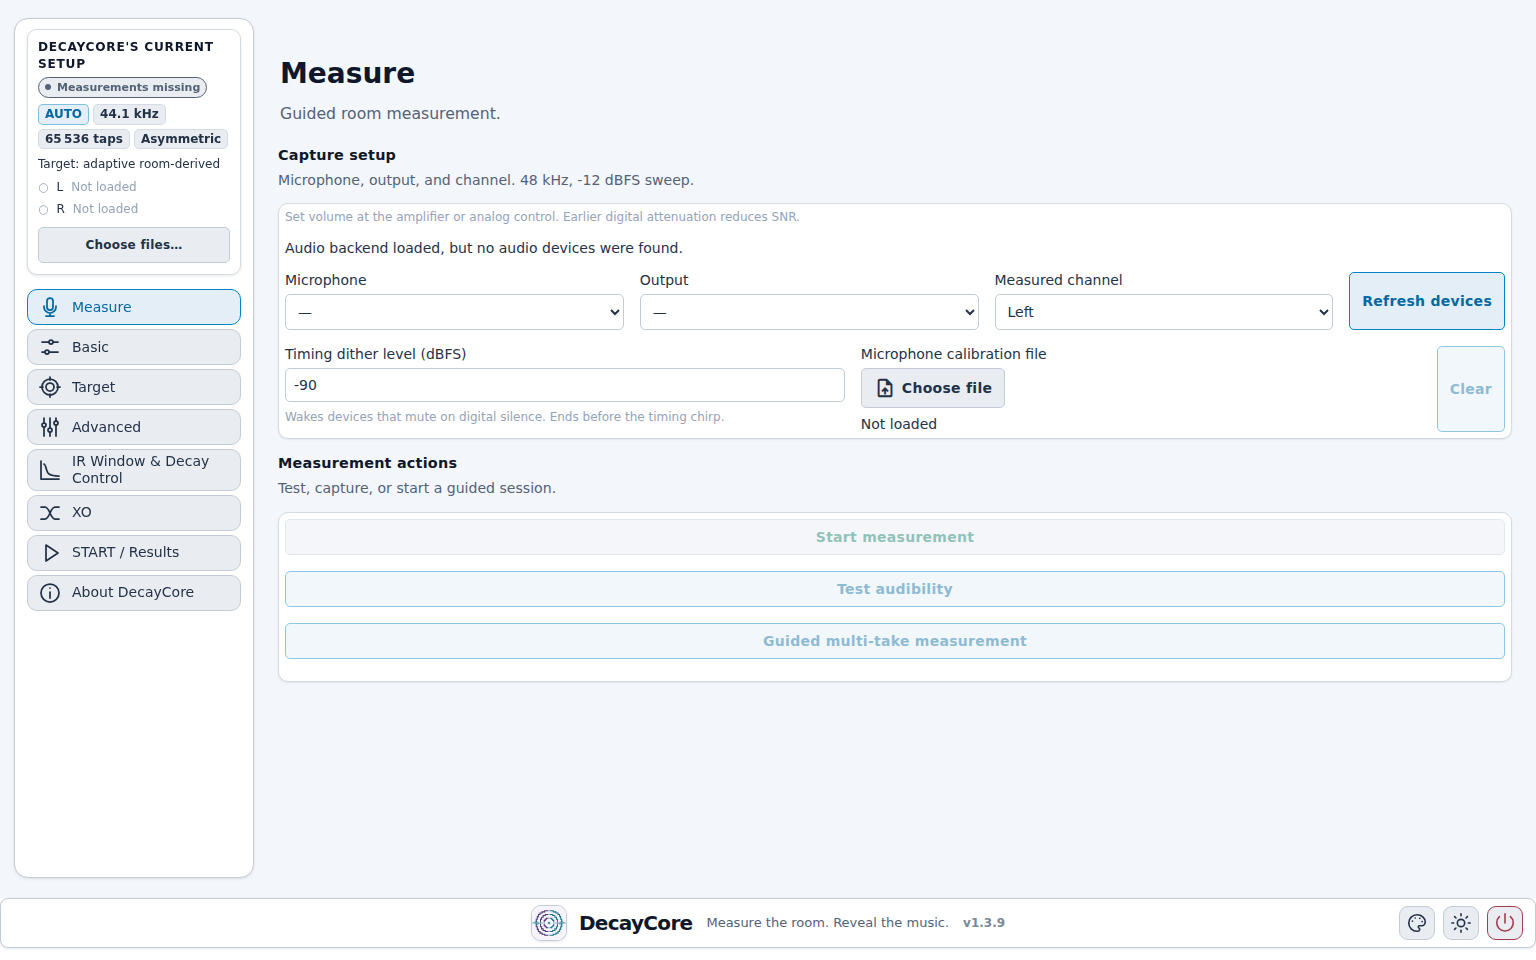
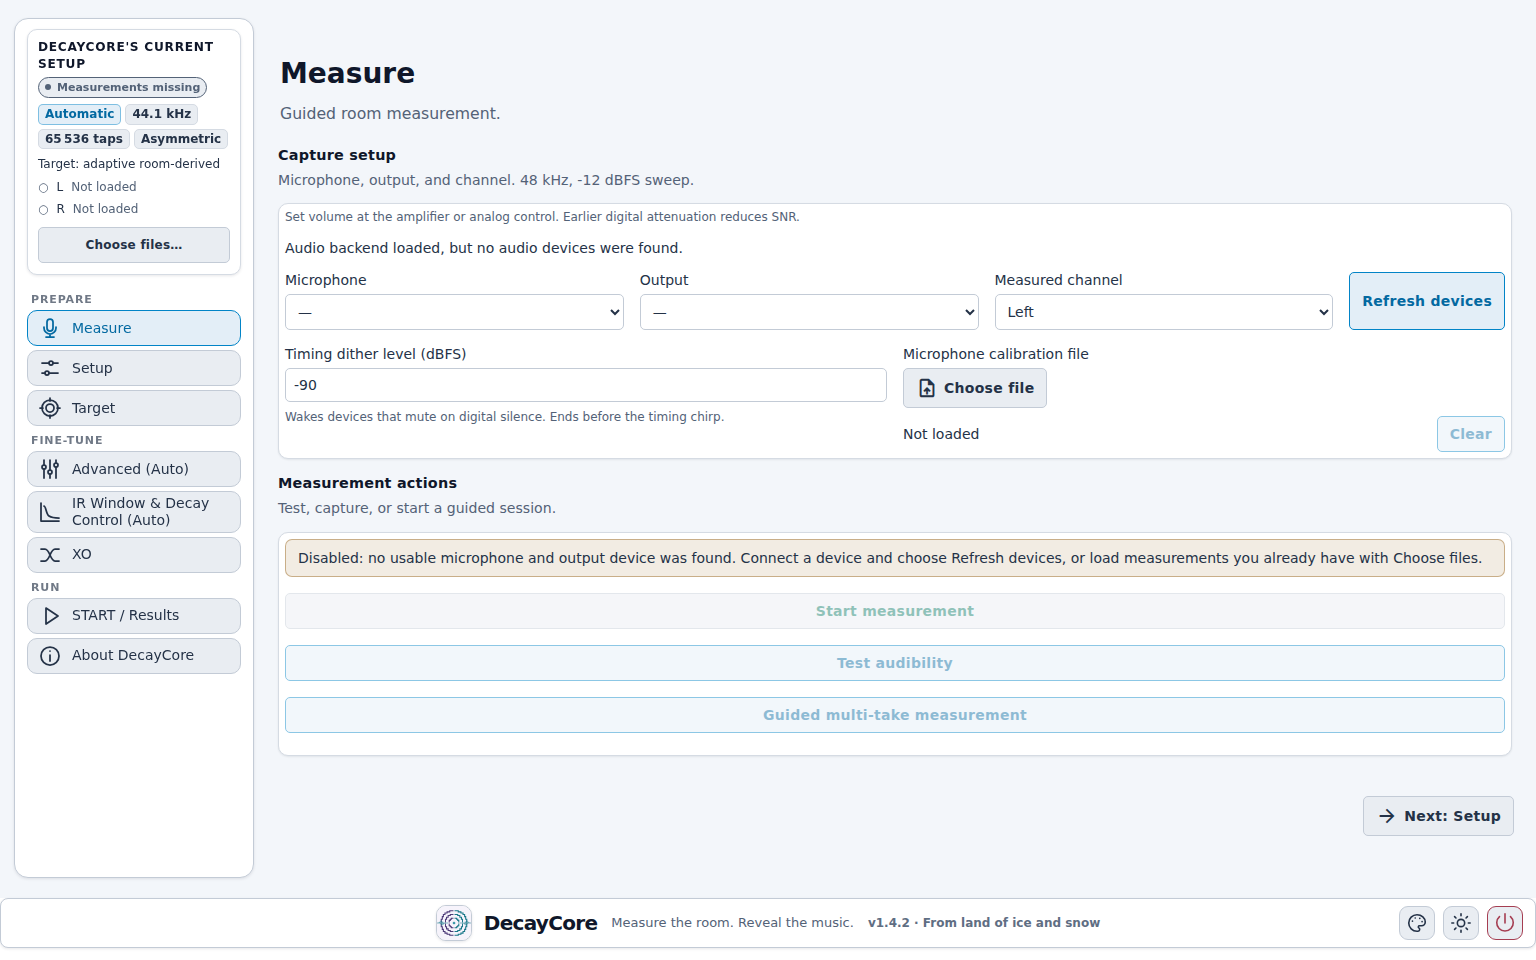
chore: release 1.4.3

diff --git a/docs/CHANGELOG.md b/docs/CHANGELOG.md
@@ -10,6 +10,68 @@ This page contains the five latest stable releases. [Older releases and Finnish 
 
 ## [Unreleased]
 
+## [1.4.3] - 30-10-2026
+
+### Send a log file with bug reports
+
+Tick Save a log file in About DecayCore, repeat the problem, and click Email the log. Your email app opens a draft to the developer. Attach the newest file from Documents/DecayCore/logs, since an email link cannot attach it.
+
+### Audio diagnostics and LAN access on macOS
+
+Run `./Start_Decay.command --audio-diagnostics` to list your audio devices, or `--lan` to open DecayCore from another computer. With `--lan` the addresses print in the terminal, macOS asks for microphone access for Terminal, and closing the terminal stops DecayCore.
+
+### Placement hints for deep bass nulls
+
+Results lists up to three deep, narrow nulls that no filter can fill, each with the distance to a reflecting surface that can cause it. Moving the speaker, subwoofer or seat does more than any filter.
+
+### Settings files for Equalizer APO and PipeWire
+
+Tick Equalizer APO and PipeWire files in Output settings to add a ready-made config for each player to the export, next to the CamillaDSP files.
+
+### Profiles for your settings
+
+Save your settings under a name on the Setup page and load them again, for music and movies for example. A profile holds settings only, not measurement files. Undo restores what a load replaced.
+
+### Results lead with graphs
+
+Results opens with the graphs. The details sit in three groups, and the ZIP download is a small link beside the saved folder.
+
+### Crossover models no longer fail the safety check
+
+Asymmetric and Linear Phase filters for a speaker with crossovers set under XO pass the safety check. Undoing a crossover's phase puts part of the pulse just ahead of its peak, and the check counted that as pre-ringing. It now allows for it. Earlier Automatic results are rebuilt.
+
+### Automatic tap count shortens many more filters
+
+Most Minimum and Mixed Phase filters now shorten by about 60%, Linear Phase filters by about a third, and more Asymmetric filters shorten too. An exported filter stays within 1% (about 0.09 dB) of the design response. The search takes a few seconds longer.
+
+### DecayCore asks before quitting mid-run
+
+The Quit button asks first while a run or measurement is in progress, and the browser warns before you close the tab. A long Automatic search is no longer lost by accident.
+
+### Undo for Apply mode defaults
+
+Undo puts back the values that Apply mode defaults replaced. The message tells you how many values changed.
+
+### Measure says why capture is unavailable
+
+The Measure page shows the reason above the buttons, such as no microphone or output device, and points to loading measurements you already have.
+
+### Edit manually from Automatic mode
+
+Pages that Automatic mode manages have an Edit manually in Advanced mode button. In the Modern and North styles their tabs are labelled Auto. The Target preview says when its curve is for reference only.
+
+### Navigation follows the working order
+
+In the Modern and North styles, tabs are grouped as Prepare, Fine-tune and Run, and each page before START ends with a Next button. The group names show in windows tall enough to fit them.
+
+### Run all four filter types keeps every result
+
+Each filter type's result and download stay on the page, one section per type, with the latest open. Before, only the last result remained.
+
+### A tidier XO page and labels
+
+The XO page shows the crossovers you use plus one empty slot, and its heading no longer repeats the step number. Labels no longer use emoji, so they look the same on every system.
+
 ## [1.4.2] - 24-10-2026
 
 ### Deep bass nulls now show clearly in the target curve

diff --git a/docs/Installation.md b/docs/Installation.md
@@ -31,12 +31,13 @@ ALSA and PulseAudio host APIs. `install.sh` supplies the host audio
 libraries: `libasound2t64 libpulse0` on current Debian/Ubuntu releases (`libasound2` on older releases), or `alsa-lib libpulse pipewire-alsa pipewire-pulse wireplumber`
 on an Arch PipeWire audio system.
 
-To print the packaged process's PortAudio host APIs and raw device list without opening an audio stream, run `./run.sh --audio-diagnostics`.
+To print the packaged process's PortAudio host APIs and raw device list without opening an audio stream, run `./run.sh --audio-diagnostics` (`./Start_Decay.command --audio-diagnostics` on macOS).
 
 DecayCore normally opens its local browser interface automatically. If it does not, open `http://127.0.0.1:8080`. The interface runs on your computer; it is not a cloud service.
 
 To use the interface from another computer on the same trusted network, start
-DecayCore with `--lan` (for example, `./run.sh --lan` on Linux). Open one of the
+DecayCore with `--lan` (for example, `./run.sh --lan` on Linux or
+`./Start_Decay.command --lan` on macOS). Open one of the
 `DecayCore LAN:` addresses printed in the console, such as
 `http://192.168.1.20:8080/`. You can bookmark this address; no session code is
 needed. Anyone who can reach the server on the network can open the interface.
@@ -44,6 +45,10 @@ LAN mode uses unencrypted HTTP and does not automatically open a local browser,
 so do not enable it on an
 untrusted or publicly exposed network. The host firewall may also need permission
 for TCP port 8080 on the private network.
+
+On macOS, `--lan` runs DecayCore inside the terminal window so that the addresses
+are shown there. macOS then asks for microphone access for Terminal instead of
+DecayCore, and closing the terminal window stops DecayCore.
 
 See [Measurement]({{ '/measurement-workflow/' | relative_url }}) for current platform support and routing requirements.
 

diff --git a/docs/index.md b/docs/index.md
@@ -105,8 +105,8 @@ image: https://vilhovalittu.github.io/DecayCore/pics/DecayCore_logo_light.png
     <p class="band__intro">Work through the pages from measurement to export. Automatic mode handles the search and shows its chosen settings, so you have a starting point for listening without spending the evening trying every combination.</p>
     <div class="shots">
       <figure class="shot">
-        <a href="{{ '/pics/ui_1.png' | relative_url }}"><img src="{{ '/pics/ui_1.png' | relative_url }}" alt="Basic tab with the mode selector, automatic goal, and target strategy" width="1536" height="960" loading="lazy"></a>
-        <figcaption>Basic: choose the mode, goal, and target strategy.</figcaption>
+        <a href="{{ '/pics/ui_1.png' | relative_url }}"><img src="{{ '/pics/ui_1.png' | relative_url }}" alt="Setup tab with the mode selector, automatic goal, and target strategy" width="1536" height="960" loading="lazy"></a>
+        <figcaption>Setup: choose the mode, goal, and target strategy.</figcaption>
       </figure>
       <figure class="shot">
         <a href="{{ '/pics/ui_4.png' | relative_url }}"><img src="{{ '/pics/ui_4.png' | relative_url }}" alt="Target tab with a target curve preview and correction limits" width="1536" height="960" loading="lazy"></a>

diff --git a/docs/faq.md b/docs/faq.md
@@ -43,6 +43,8 @@ The packaged release also includes guided measurement and Automatic mode.
 
 Open **About DecayCore → Maintenance**. Use **Clear automatic-mode caches** for unexpected Automatic results or **Reset settings to defaults** for a damaged configuration. Neither action removes measurements, target presets, or exported filters.
 
+To report a problem, tick **Save a log file** in **About DecayCore**, repeat the steps, and click **Email the log**. Your email app opens a draft to the developer with the end of the log. An email link cannot attach files, so attach the file named in the message, the newest one in `Documents/DecayCore/logs`. On macOS this is also the way to get the log, because `Start_Decay.command` hides the terminal output.
+
 If the app does not start, use the platform cleanup script in `config_delete/`. [Configuration and Data Paths]({{ '/paths.html#resetting-caches-and-configuration-troubleshooting' | relative_url }}) lists the affected files.
 
 ## Is DecayCore open source?

diff --git a/docs/User_Manual.md b/docs/User_Manual.md
@@ -155,7 +155,10 @@ Match the sample rate to the playback pipeline. More taps give better low-freque
 In packaged builds, open **Additional run options** on **START / Results** and
 choose **Run with automatic tap count**. This generates filters with
 the current settings and then shortens their exported support within a strict
-response-error bound. It works with Asymmetric, Minimum, Mixed and Linear Phase.
+response-error bound: at every frequency the exported filter stays within 1%
+(about 0.09 dB) of the design response, measured against the local response with
+a floor of 0.1% of the response peak. It works with Asymmetric, Minimum, Mixed
+and Linear Phase.
 The taps setting still controls the design resolution; it is not replaced by
 the final export length. Each sample rate is checked separately.
 

diff --git a/docs/paths.md b/docs/paths.md
@@ -193,6 +193,9 @@ read; delete it manually, or with the helper scripts, once you no longer need it
 | **Old, unused** | `~/.camillafir/` | `~/.camillafir/` | `~/.camillafir/` |
 | **Measurements** | `~/Documents/DecayCore/measurement/` | `~/Documents/DecayCore/measurement/` | `%USERPROFILE%\Documents\DecayCore\measurement\` |
 | **Filters** | `~/Documents/DecayCore/filters/` | `~/Documents/DecayCore/filters/` | `%USERPROFILE%\Documents\DecayCore\filters\` |
+| **Log files** | `~/Documents/DecayCore/logs/` | `~/Documents/DecayCore/logs/` | `%USERPROFILE%\Documents\DecayCore\logs\` |
+
+Log files exist only after you tick **Save a log file** in **About DecayCore**. If the Documents folder cannot be written, DecayCore saves them in a `logs` folder inside the data directory instead.
 
 ---
 

diff --git a/README.md b/README.md
@@ -32,11 +32,11 @@ The app runs locally on your computer, with controls in your web browser. No clo
 
 ## Screenshots
 
-![Basic tab with the current setup and Choose files button in the sidebar](docs/pics/ui_1.png)
+![Setup tab with the current setup and Choose files button in the sidebar](docs/pics/ui_1.png)
 
 ![Measure tab — configure capture devices and run guided room measurements](docs/pics/ui_2.png)
 
-![Basic tab — choose operating mode, FIR engine, and sample rate](docs/pics/ui_3.png)
+![Setup tab — choose operating mode, FIR engine, and sample rate](docs/pics/ui_3.png)
 
 ![Target tab — shape the target curve, leveling, and gain behavior](docs/pics/ui_4.png)
 
